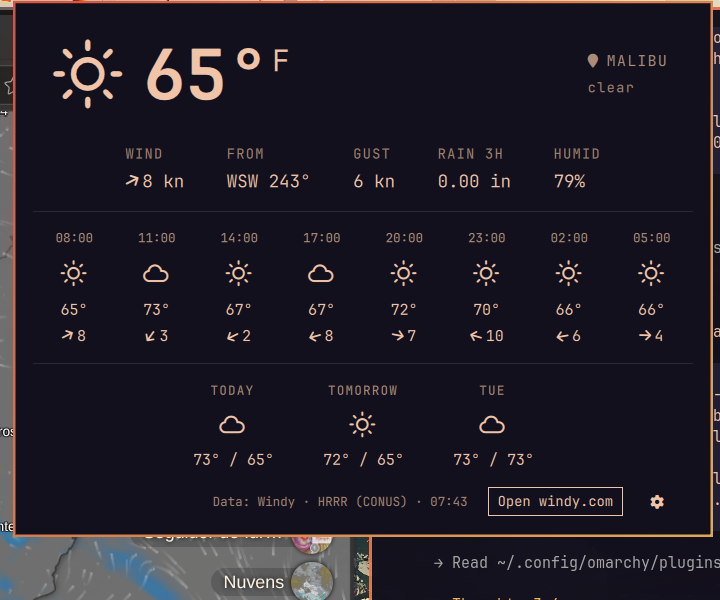
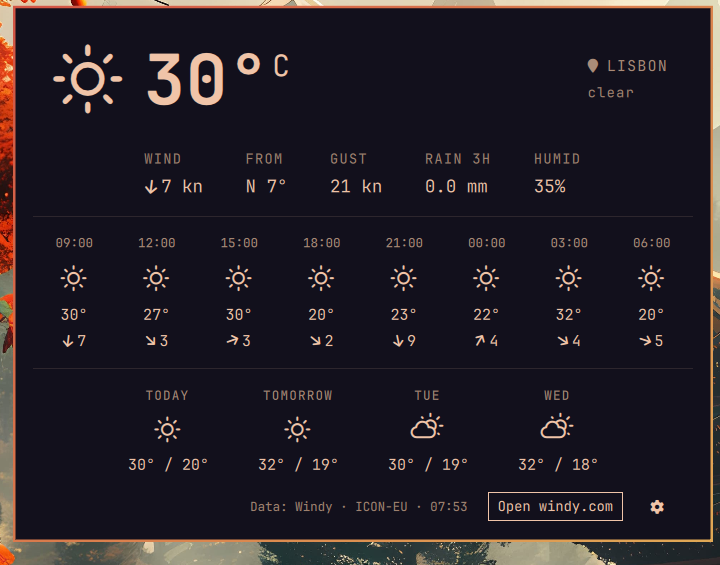
Refresh preview screenshots on a clean workspace

diff --git a/README.md b/README.md
@@ -4,6 +4,8 @@ A wind, rain, and temperature bar widget for [Omarchy](https://omarchy.org) Quat
 
 ![Windy panel](preview.png)
 
+![Windy bar pill](screenshot-bar.png)
+
 - **Bar pill**: condition icon + temperature by default; optionally the rotating wind arrow + speed, or both.
 - **Panel**: current conditions, an 8-point hourly outlook (condition, temperature, wind, rain), and a 4-day forecast.
 - **Location**: shares `weather.json` with Omarchy's stock weather widget. Click the location to search (Open-Meteo geocoding), or let it auto-detect by IP.
